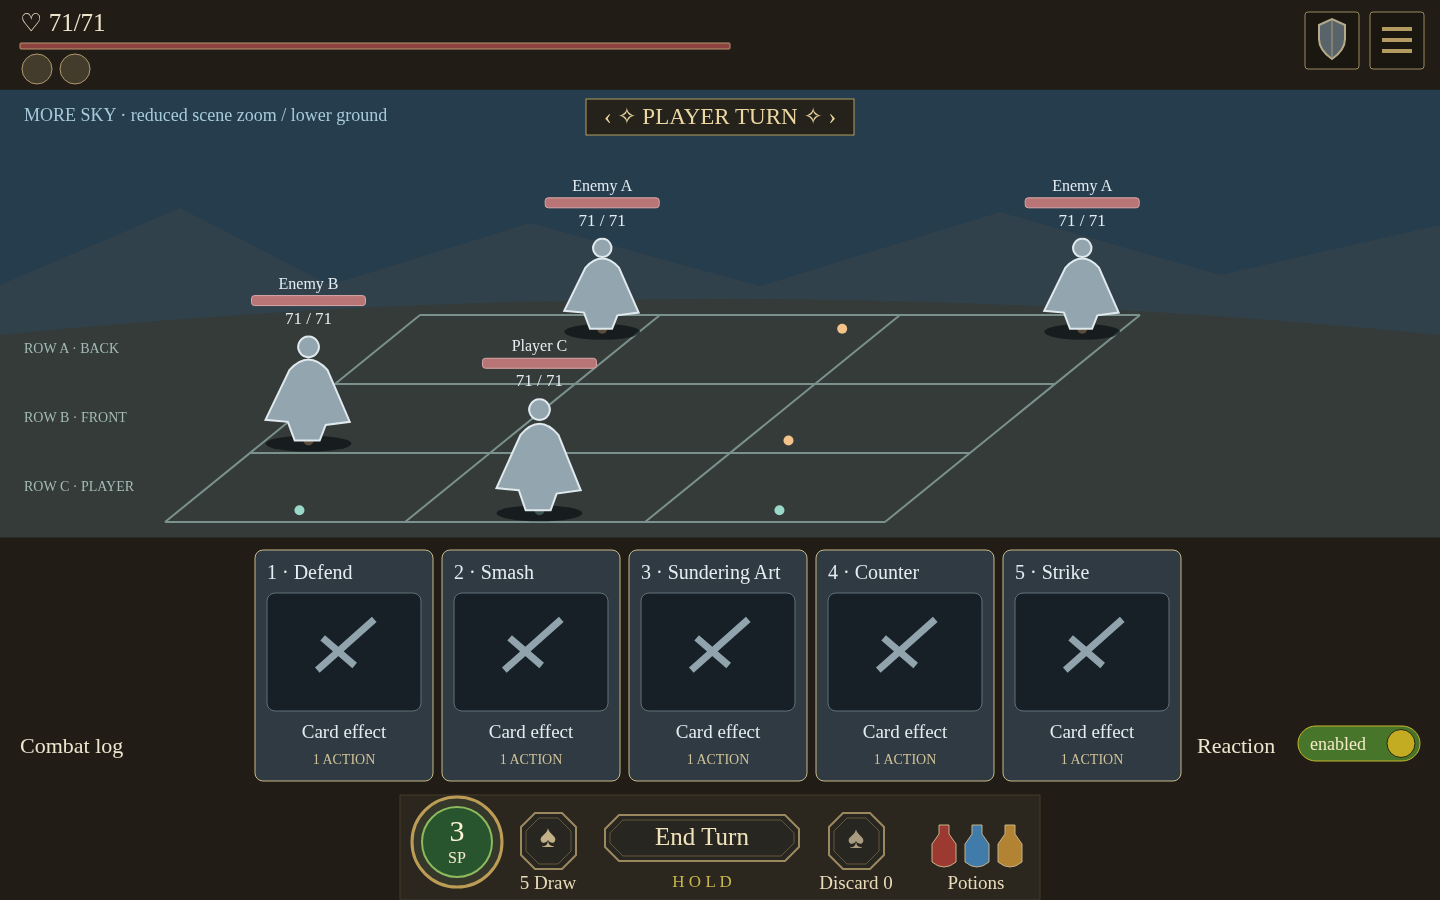
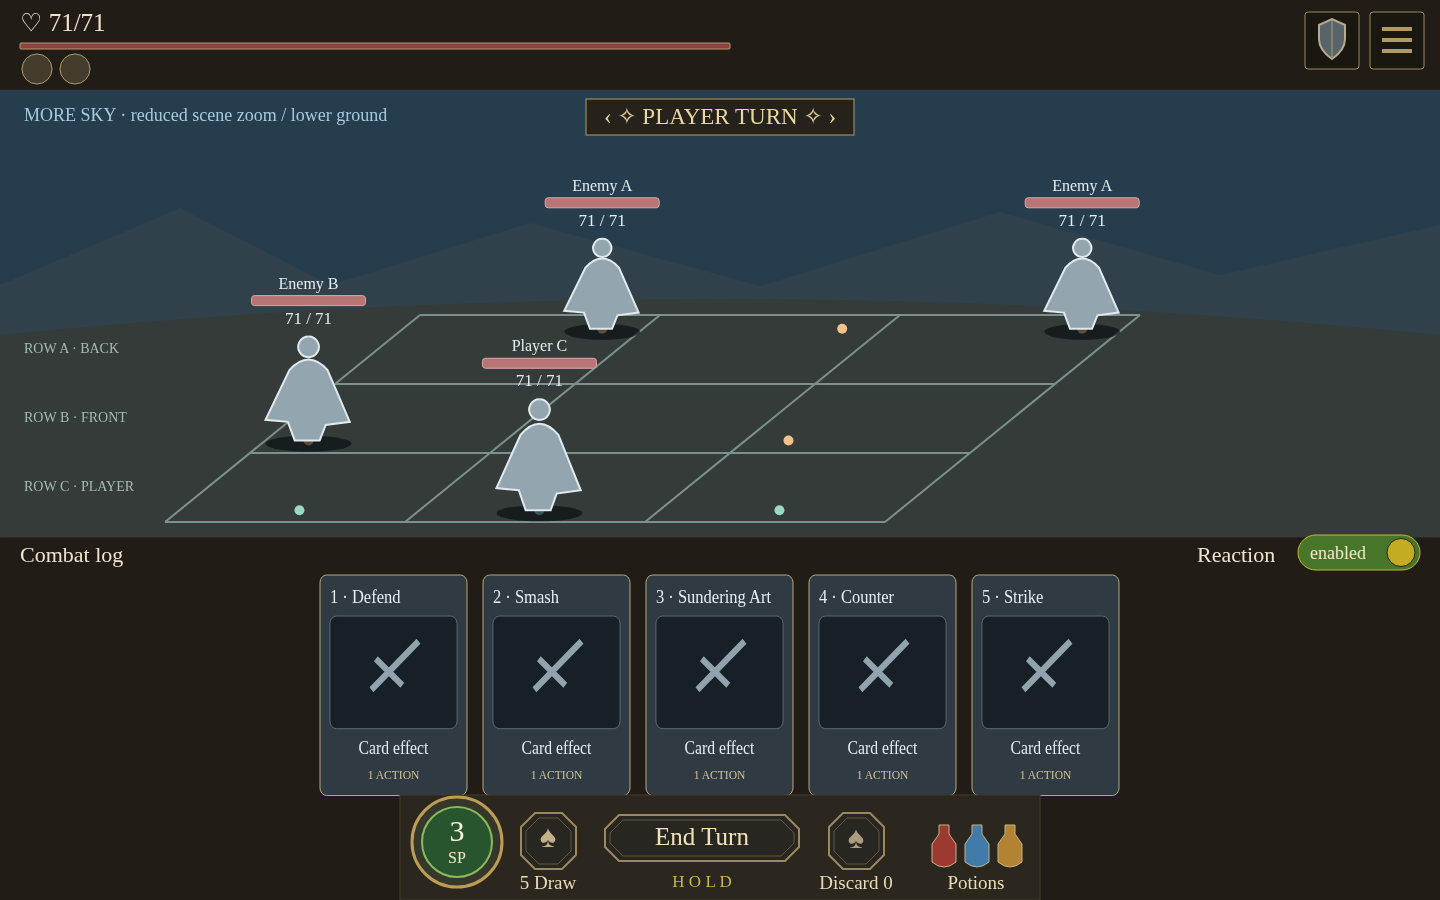
docs: keep card proportions and fixed utilities above hand

Changed region(s): [[0.1562, 0.5911, 1.0, 0.9022], [0.0, 0.8089, 0.0938, 0.84], [0.0312, 0.5911, 0.0938, 0.6222]]

diff --git a/docs/design/battlefield-options-2026-10-16/revised-original.html b/docs/design/battlefield-options-2026-10-16/revised-original.html
@@ -1,1 +1,1 @@
-<!doctype html><meta charset="utf-8"><title>Revised original layout</title><style>body{margin:0;background:#161b1e;color:#eee7d4;font:18px Arial}main{max-width:1440px;margin:auto}header{padding:24px}h1{margin:0 0 12px;font-size:30px}p{line-height:1.5;margin:6px 0}img{width:100%;display:block}a{color:#e5cb89}</style><main><header><h1>Revised original layout</h1><p>Preserve the original header, centered hand, button/toggle utilities and stone footer group.</p><p>Footer order stays: resource orb → draw pile → End Turn → discard pile → potions. Combat log stays left; Reaction toggle stays right, both anchored to the screen rather than the hand.</p><p>Only the requested scene framing, formation anchors, shadow widths, readable sizing and continuous lower background change. This is a schematic wireframe awaiting approval.</p></header><a href="revised-original.svg"><img src="revised-original.svg" alt="Revised original battlefield layout preserving original header and footer groups"></a><header><p><a href="anchors.png">View shared formation-anchor inset</a> · <a href="revised-original.png">Open full-size wireframe</a></p><p>Previous A–G drafts are rejected and retained only as an archive.</p></header></main>
+<!doctype html><meta charset="utf-8"><title>Revised original layout</title><style>body{margin:0;background:#161b1e;color:#eee7d4;font:18px Arial}main{max-width:1440px;margin:auto}header{padding:24px}h1{margin:0 0 12px;font-size:30px}p{line-height:1.5;margin:6px 0}img{width:100%;display:block}a{color:#e5cb89}</style><main><header><h1>Revised original layout</h1><p>Preserve the original header, centered hand, button/toggle utilities and stone footer group.</p><p>Footer order stays: resource orb → draw pile → End Turn → discard pile → potions. Combat log stays left; Reaction toggle stays right, both on a slim line above the cards, anchored to the screen rather than the hand.</p><p>Only the requested scene framing, formation anchors, shadow widths, readable sizing and continuous lower background change. This is a schematic wireframe awaiting approval.</p></header><a href="revised-original.svg"><img src="revised-original.svg" alt="Revised original battlefield layout preserving original header and footer groups"></a><header><p><a href="anchors.png">View shared formation-anchor inset</a> · <a href="revised-original.png">Open full-size wireframe</a></p><p>Previous A–G drafts are rejected and retained only as an archive.</p></header></main>

diff --git a/docs/design/battlefield-options-2026-10-16/README.md b/docs/design/battlefield-options-2026-10-16/README.md
@@ -2,9 +2,9 @@
 
 The owner rejected all A–G proposals because the footer was redesigned. Those files are archived proposals, not active candidates.
 
-**Current proposal:** [revised-original.html](revised-original.html), [PNG](revised-original.png), [SVG](revised-original.svg). The original header and footer control arrangement are retained. Existing Combat log and Reaction controls retain their recognizable button/toggle presentation and sides, with fixed screen-relative positions independent of the hand.
+**Current proposal:** [revised-original.html](revised-original.html), [PNG](revised-original.png), [SVG](revised-original.svg). The original header and footer control arrangement are retained. Existing Combat log and Reaction controls retain their recognizable button/toggle presentation and sides, with fixed screen-relative positions on a slim line above the hand, independent of the hand width.
 
-The footer keeps its existing stone HUD group, enlarged in place, ordered resource orb, draw pile, End Turn, discard pile, potions. The hand remains centered directly above it, with unused hand-space removed. All lower HUD background uses the same color. Turn banner remains at the upper center of the field; health remains top left, shield/menu top right.
+The footer keeps its existing stone HUD group, enlarged in place, ordered resource orb, draw pile, End Turn, discard pile, potions. The hand remains centered directly above it, with unused hand-space removed. Card frames retain the original 2:3 width-to-height proportion (147×220.5). All lower HUD background uses the same color. Turn banner remains at the upper center of the field; health remains top left, shield/menu top right.
 
 Scene changes remain reduced zoom/lower ground to expose sky, requested 3×3 row anchors and character-width shadows. The shared anchors inset still applies. Card and control sizes are schematic; this is a faithful composition review before the visual preview, then implementation.
 
